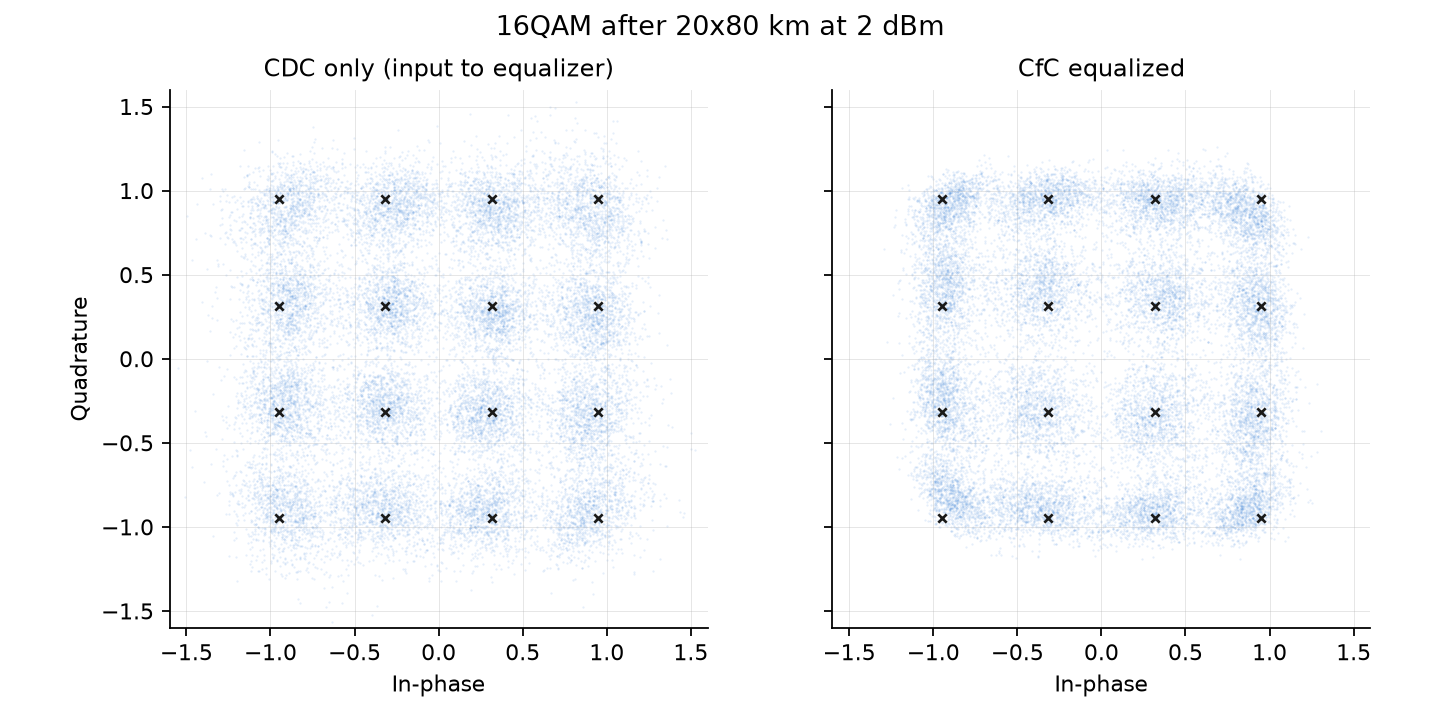
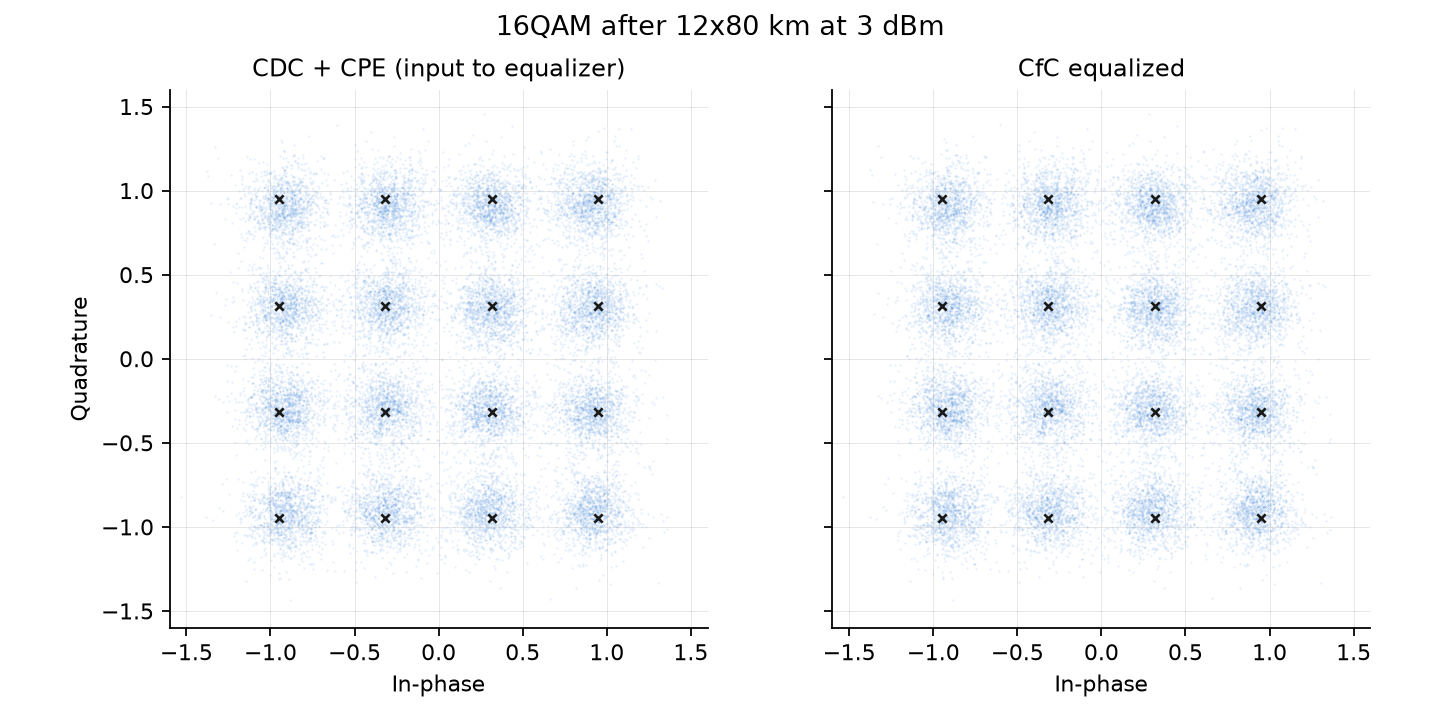
Fix CfC learning failure: bidirectional center readout + physics-informed input
Spike v2 showed the CfC frozen at the identity for 40 epochs while MLP/BiLSTM
learned (+1.2/+1.35 dB Q). Three changes, each verified in isolation:
- bidirectional CfC read out at the center step (final-state readout made the
  center symbol survive 21 gated updates; forward+backward sweeps meeting at
  the center cost the same MACs as one full sweep)
- optional |x|^2 input channel for all models (Kerr distortion is power-driven;
  4-epoch probe: the only lever that moved the loss)
- cosine LR schedule support in the harness; v3 trains at 3e-3 -> 1e-4
Streaming mode stays forward-only and now guards against bidirectional use.

diff --git a/fluidnn/models/cfc.py b/fluidnn/models/cfc.py
@@ -64,39 +64,67 @@ class CfCCell(nn.Module):
 
 
 class CfCEqualizer(nn.Module):
-    """Window-mode CfC: sweep the received window once, read out the final state.
+    """Window-mode CfC equalizer.
 
-    This is the apples-to-apples counterpart of the window-based baselines. The
-    cell also supports streaming (one step per new symbol, state carried
-    forward), which is the low-latency real-time deployment mode -- see
-    ``step()``.
+    Bidirectional by default: a forward and a backward cell sweep the window and
+    both are read out *at the center step*, mirroring the BiLSTM readout. (A
+    final-state readout demonstrably fails here: the center symbol's information
+    has to survive half a window of gated updates, and the network converges to
+    the identity -- see docs/notes/spike_v1_diagnosis.md and spike v2 logs.)
+
+    The cell also supports streaming (one step per new symbol, state carried
+    forward), the low-latency real-time deployment mode -- see ``step()``.
     """
 
-    def __init__(self, window_len: int, hidden: int = 24, backbone_units: int = 0):
+    def __init__(
+        self,
+        window_len: int,
+        hidden: int = 24,
+        backbone_units: int = 0,
+        bidirectional: bool = True,
+        in_channels: int = 2,
+    ):
         super().__init__()
         self.window_len = window_len
         self.hidden = hidden
-        self.cell = CfCCell(input_size=2, hidden_size=hidden, backbone_units=backbone_units)
-        self.head = nn.Linear(hidden, 2)
+        self.bidirectional = bidirectional
+        self.cell = CfCCell(in_channels, hidden_size=hidden, backbone_units=backbone_units)
+        if bidirectional:
+            self.cell_bw = CfCCell(in_channels, hidden_size=hidden, backbone_units=backbone_units)
+        self.head = nn.Linear(hidden * (2 if bidirectional else 1), 2)
 
     def forward(self, x: torch.Tensor) -> torch.Tensor:
+        center = self.window_len // 2
         h = x.new_zeros(x.shape[0], self.hidden)
-        for t in range(x.shape[1]):
+        for t in range(center + 1):  # forward sweep up to and including the center
             h = self.cell(x[:, t, :], h)
-        return x[:, self.window_len // 2, :] + self.head(h)
+        if self.bidirectional:
+            hb = x.new_zeros(x.shape[0], self.hidden)
+            for t in range(x.shape[1] - 1, center - 1, -1):  # backward sweep to center
+                hb = self.cell_bw(x[:, t, :], hb)
+            h = torch.cat([h, hb], dim=-1)
+        return x[:, center, :2] + self.head(h)
 
     def step(self, x_t: torch.Tensor, h: torch.Tensor) -> tuple[torch.Tensor, torch.Tensor]:
         """Streaming mode: one cell update per incoming symbol, O(1) per symbol.
 
         The residual connection uses the current input, so in streaming mode the
-        prediction corrects the symbol that just arrived.
+        prediction corrects the symbol that just arrived. Streaming uses the
+        forward cell only; a bidirectional model's head expects both states, so
+        streaming applies to unidirectional models.
         """
+        if self.bidirectional:
+            raise RuntimeError("streaming requires bidirectional=False")
         h = self.cell(x_t, h)
-        return x_t + self.head(h), h
+        return x_t[:, :2] + self.head(h), h
 
     def macs_per_symbol(self) -> int:
+        center = self.window_len // 2
+        steps = center + 1  # forward sweep
+        if self.bidirectional:
+            steps += self.window_len - center  # backward sweep down to the center
         return (
-            self.window_len * self.cell.macs_per_step()
+            steps * self.cell.macs_per_step()
             + self.head.in_features * self.head.out_features
         )
 

diff --git a/experiments/spike.py b/experiments/spike.py
@@ -26,7 +26,7 @@ from fluidnn.models import BiLSTMEqualizer, CfCEqualizer, MLPEqualizer
 from fluidnn.training.harness import evaluate_equalizer, train_equalizer
 
 HALF_WINDOW = 20  # -> 41-symbol windows
-EPOCHS = 40
+EPOCHS = 50
 RESULTS_DIR = pathlib.Path(__file__).resolve().parents[1] / "results"
 FIGURES_DIR = pathlib.Path(__file__).resolve().parents[1] / "docs" / "figures"
 
@@ -49,7 +49,7 @@ def link_config(n_symbols: int, seed: int) -> LinkConfig:
 def build_dataset(n_symbols: int, seed: int) -> dict:
     r = simulate_link(link_config(n_symbols, seed))
     x_c, y_c = make_windows(r["rx_symbols"], r["tx_symbols"], HALF_WINDOW)
-    r["x"] = to_real_features(x_c)  # (n, T, 2)
+    r["x"] = to_real_features(x_c, power_feature=True)  # (n, T, 3): I, Q, |x|^2
     r["y"] = np.stack([y_c.real, y_c.imag], axis=-1).astype(np.float32)
     return r
 
@@ -78,14 +78,15 @@ def main() -> None:
 
     window_len = 2 * HALF_WINDOW + 1
     models = {
-        "MLP": MLPEqualizer(window_len, hidden=(256, 128)),
-        "BiLSTM": BiLSTMEqualizer(window_len, hidden=48),
-        "CfC": CfCEqualizer(window_len, hidden=32),
+        "MLP": MLPEqualizer(window_len, hidden=(256, 128), in_channels=3),
+        "BiLSTM": BiLSTMEqualizer(window_len, hidden=48, in_channels=3),
+        "CfC": CfCEqualizer(window_len, hidden=32, backbone_units=64, in_channels=3),
     }
     for name, model in models.items():
         print(f"\nTraining {name} ...")
         history = train_equalizer(
-            model, x_tr, y_tr, x_val, y_val, epochs=EPOCHS, seed=0, verbose=True
+            model, x_tr, y_tr, x_val, y_val, epochs=EPOCHS, batch_size=1024,
+            lr=3e-3, lr_min=1e-4, seed=0, verbose=True
         )
         report = evaluate_equalizer(
             model, test["x"], test["tx_symbols"], test["tx_bits"], test["qam"]
@@ -97,8 +98,6 @@ def main() -> None:
             f"  params={report['params']}  MACs/sym={report['macs_per_symbol']}"
         )
 
-    results["CfC"]["macs_per_symbol_streaming"] = models["CfC"].macs_per_symbol_streaming()
-
     print("\n=== Summary (test set) ===")
     print(f"{'model':10s} {'BER':>10s} {'Q [dB]':>8s} {'EVM %':>7s} {'params':>8s} {'MACs/sym':>9s}")
     for name, r in results.items():
@@ -106,11 +105,6 @@ def main() -> None:
             f"{name:10s} {r['ber']:10.2e} {r['q_db']:8.2f} {r['evm_percent']:7.1f}"
             f" {r['params']:8d} {r['macs_per_symbol']:9d}"
         )
-    print(
-        f"\nCfC streaming mode (state carried, one step per symbol): "
-        f"{results['CfC']['macs_per_symbol_streaming']} MACs/sym"
-    )
-
     payload = {"config": link_config(0, 0).to_dict(), "half_window": HALF_WINDOW, "results": results}
     (RESULTS_DIR / "spike_results.json").write_text(json.dumps(payload, indent=2))
 

diff --git a/fluidnn/channel/dataset.py b/fluidnn/channel/dataset.py
@@ -19,6 +19,15 @@ def make_windows(
     return rx_symbols[idx], tx_symbols.copy()
 
 
-def to_real_features(x_complex: np.ndarray) -> np.ndarray:
-    """(n, T) complex -> (n, T, 2) float32 with channels [real, imag]."""
-    return np.stack([x_complex.real, x_complex.imag], axis=-1).astype(np.float32)
+def to_real_features(x_complex: np.ndarray, power_feature: bool = False) -> np.ndarray:
+    """(n, T) complex -> (n, T, C) float32.
+
+    Channels are [real, imag] and, when ``power_feature`` is set, additionally
+    the instantaneous power |x|^2. The Kerr nonlinearity is driven by power, so
+    exposing it directly is a physics-informed input that spares every model
+    from having to synthesize input-times-input products internally.
+    """
+    feats = [x_complex.real, x_complex.imag]
+    if power_feature:
+        feats.append(np.abs(x_complex) ** 2)
+    return np.stack(feats, axis=-1).astype(np.float32)

diff --git a/fluidnn/models/lstm.py b/fluidnn/models/lstm.py
@@ -12,19 +12,22 @@ from torch import nn
 
 
 class BiLSTMEqualizer(nn.Module):
-    def __init__(self, window_len: int, hidden: int = 32):
+    def __init__(self, window_len: int, hidden: int = 32, in_channels: int = 2):
         super().__init__()
         self.window_len = window_len
         self.hidden = hidden
-        self.lstm = nn.LSTM(input_size=2, hidden_size=hidden, batch_first=True, bidirectional=True)
+        self.lstm = nn.LSTM(
+            input_size=in_channels, hidden_size=hidden, batch_first=True, bidirectional=True
+        )
         self.head = nn.Linear(2 * hidden, 2)
 
     def forward(self, x: torch.Tensor) -> torch.Tensor:
         out, _ = self.lstm(x)  # (B, T, 2H)
         center = self.window_len // 2
-        return x[:, center, :] + self.head(out[:, center, :])
+        return x[:, center, :2] + self.head(out[:, center, :])
 
     def macs_per_symbol(self) -> int:
-        per_step_per_dir = 4 * self.hidden * (2 + self.hidden)  # W_ih + W_hh for 4 gates
+        in_size = self.lstm.input_size
+        per_step_per_dir = 4 * self.hidden * (in_size + self.hidden)  # W_ih + W_hh, 4 gates
         recurrent = 2 * self.window_len * per_step_per_dir
         return recurrent + self.head.in_features * self.head.out_features

diff --git a/fluidnn/training/harness.py b/fluidnn/training/harness.py
@@ -23,6 +23,7 @@ def train_equalizer(
     epochs: int = 30,
     batch_size: int = 512,
     lr: float = 1e-3,
+    lr_min: float | None = None,  # if set, cosine-anneal lr -> lr_min over the run
     seed: int = 0,
     verbose: bool = True,
 ) -> dict:
@@ -35,6 +36,11 @@ def train_equalizer(
     xv = torch.from_numpy(x_val)
     yv = torch.from_numpy(y_val)
     opt = torch.optim.Adam(model.parameters(), lr=lr)
+    scheduler = (
+        torch.optim.lr_scheduler.CosineAnnealingLR(opt, T_max=epochs, eta_min=lr_min)
+        if lr_min is not None
+        else None
+    )
     loss_fn = nn.MSELoss()
 
     history = {"train_mse": [], "val_mse": []}
@@ -51,6 +57,8 @@ def train_equalizer(
             opt.step()
             running += loss.item() * len(xb)
             count += len(xb)
+        if scheduler is not None:
+            scheduler.step()
         model.eval()
         with torch.no_grad():
             val_mse = loss_fn(_predict(model, xv), yv).item()

diff --git a/fluidnn/models/mlp.py b/fluidnn/models/mlp.py
@@ -13,10 +13,10 @@ from torch import nn
 
 
 class MLPEqualizer(nn.Module):
-    def __init__(self, window_len: int, hidden: tuple[int, ...] = (128, 64)):
+    def __init__(self, window_len: int, hidden: tuple[int, ...] = (128, 64), in_channels: int = 2):
         super().__init__()
         self.window_len = window_len
-        dims = [2 * window_len, *hidden, 2]
+        dims = [in_channels * window_len, *hidden, 2]
         layers: list[nn.Module] = []
         for i, (d_in, d_out) in enumerate(zip(dims[:-1], dims[1:])):
             layers.append(nn.Linear(d_in, d_out))
@@ -25,7 +25,7 @@ class MLPEqualizer(nn.Module):
         self.net = nn.Sequential(*layers)
 
     def forward(self, x: torch.Tensor) -> torch.Tensor:
-        return x[:, self.window_len // 2, :] + self.net(x.flatten(1))
+        return x[:, self.window_len // 2, :2] + self.net(x.flatten(1))
 
     def macs_per_symbol(self) -> int:
         return sum(